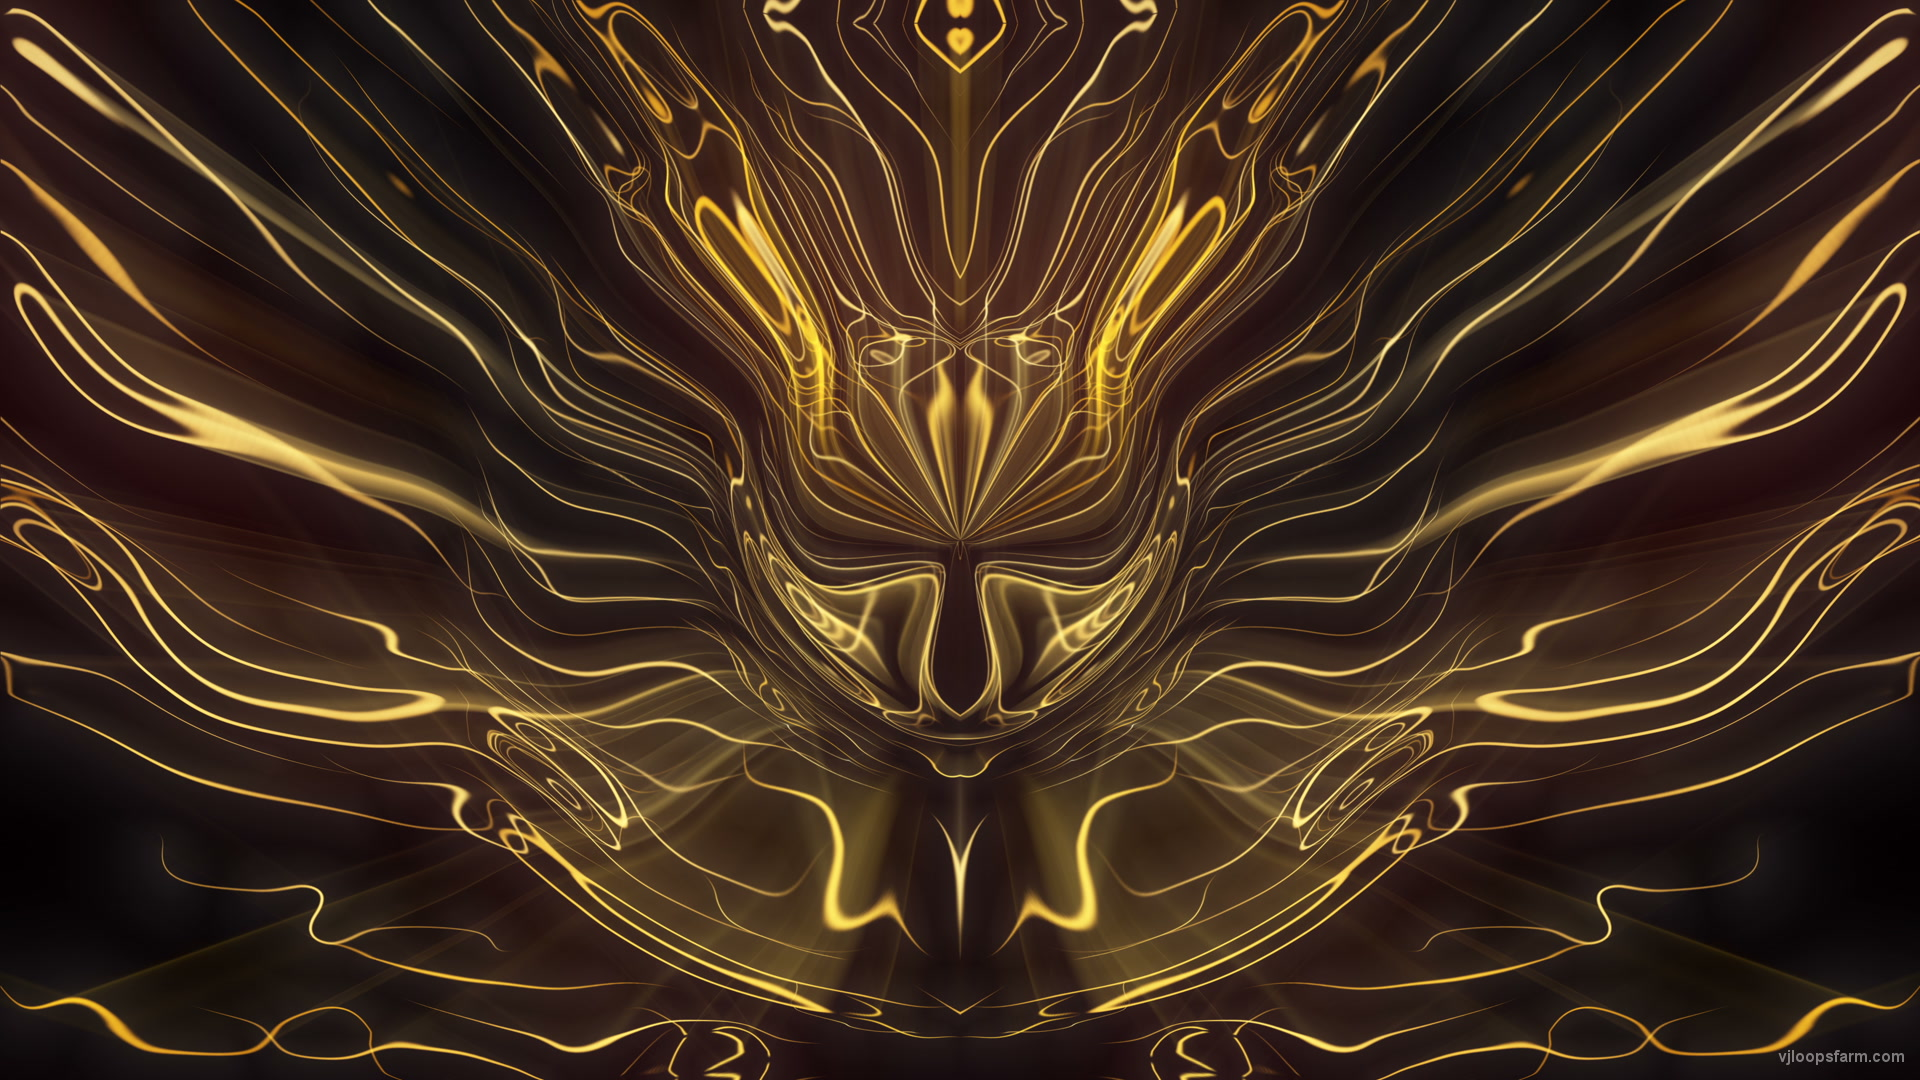
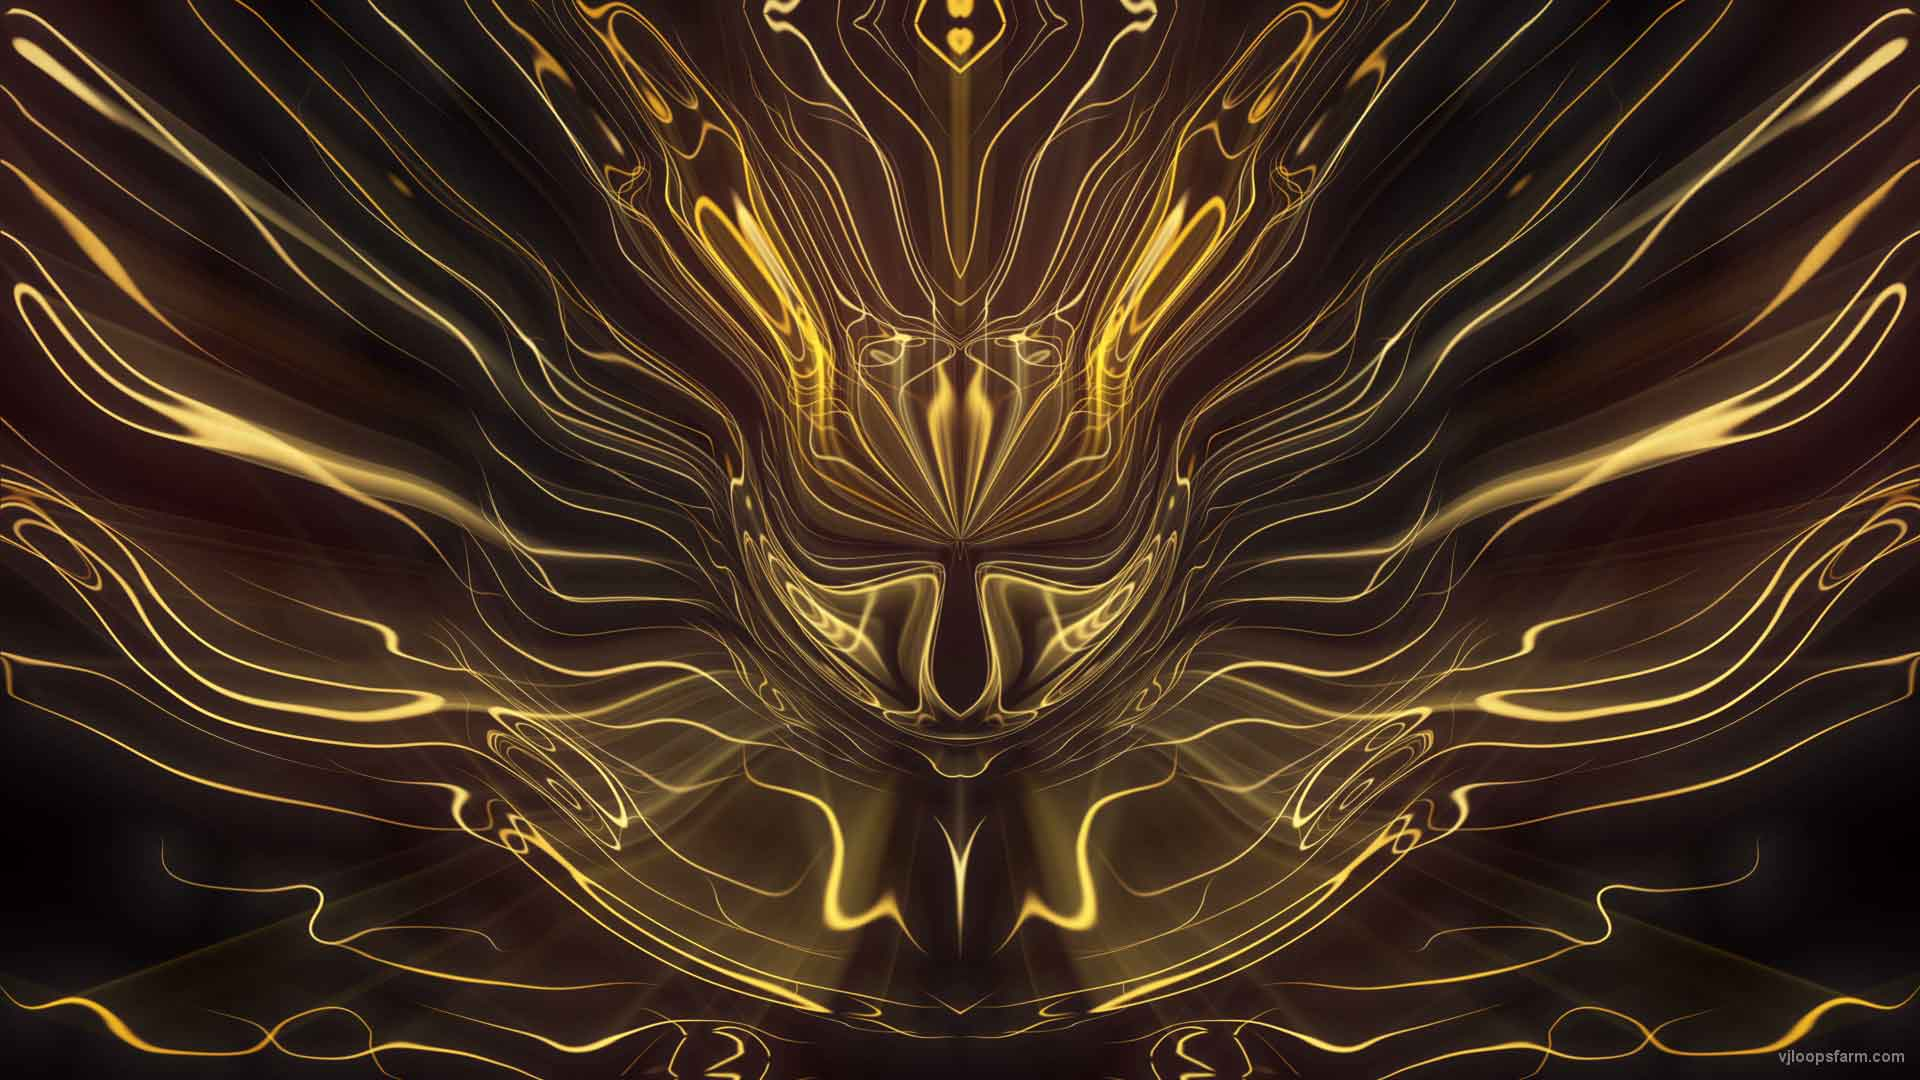
background compress

diff --git a/assets/css/events.css b/assets/css/events.css
@@ -43,21 +43,45 @@ a:hover {
   padding-top: 10vh;
   font-family: Verdana, sans-serif;
   background: rgb(252, 92, 125);
-  background: linear-gradient(rgba(0, 0, 0, 0.6), rgba(0, 0, 0, 0.6)), url("../img/bgnd/concerts.jpg") 0 0 / cover fixed, linear-gradient( 90deg, rgba(252, 92, 125, 1) 0%, rgba(106, 130, 251, 1) 100%);
+  background: linear-gradient(rgba(0, 0, 0, 0.6), rgba(0, 0, 0, 0.6)),
+    url("../img/bgnd/concerts.jpg") 0 0 / cover fixed,
+    linear-gradient(
+      90deg,
+      rgba(252, 92, 125, 1) 0%,
+      rgba(106, 130, 251, 1) 100%
+    );
 }
 
 #workshop {
   padding-top: 10vh;
   font-family: Verdana, sans-serif;
   background: rgb(203, 29, 65);
-  background: linear-gradient(rgba(0, 0, 0, 0.6), rgba(0, 0, 0, 0.6)), url("../img/bgnd/workshops.png") 0 0 / cover fixed, linear-gradient( 90deg, rgba(203, 29, 65, 1) 0%, rgba(242, 117, 98, 1) 0%, rgba(200, 64, 44, 1) 0%, rgba(236, 24, 47, 1) 0%, rgba(187, 41, 117, 1) 100%, rgba(106, 130, 251, 1) 100%);
+  background: linear-gradient(rgba(0, 0, 0, 0.6), rgba(0, 0, 0, 0.6)),
+    url("../img/bgnd/workshops.jpg") 0 0 / cover fixed,
+    linear-gradient(
+      90deg,
+      rgba(203, 29, 65, 1) 0%,
+      rgba(242, 117, 98, 1) 0%,
+      rgba(200, 64, 44, 1) 0%,
+      rgba(236, 24, 47, 1) 0%,
+      rgba(187, 41, 117, 1) 100%,
+      rgba(106, 130, 251, 1) 100%
+    );
 }
 
 #informal {
   padding-top: 10vh;
   font-family: Verdana, sans-serif;
   background: rgb(252, 92, 125);
-  background: linear-gradient(rgba(0, 0, 0, 0.6), rgba(0, 0, 0, 0.6)), url("../img/bgnd/informals.jpg") 0 0 / cover fixed, linear-gradient( 90deg, rgba(252, 92, 125, 1) 0%, rgba(242, 117, 98, 1) 0%, rgba(218, 31, 7, 1) 100%, rgba(106, 130, 251, 1) 100%);
+  background: linear-gradient(rgba(0, 0, 0, 0.6), rgba(0, 0, 0, 0.6)),
+    url("../img/bgnd/informals.jpg") 0 0 / cover fixed,
+    linear-gradient(
+      90deg,
+      rgba(252, 92, 125, 1) 0%,
+      rgba(242, 117, 98, 1) 0%,
+      rgba(218, 31, 7, 1) 100%,
+      rgba(106, 130, 251, 1) 100%
+    );
 }
 
 @font-face {
@@ -87,7 +111,8 @@ img {
 
 /* Next & previous buttons */
 
-.prev, .next {
+.prev,
+.next {
   cursor: pointer;
   position: absolute;
   top: 50%;
@@ -133,7 +158,8 @@ img {
   border-radius: 3px 0 0 3px;
 }
 
-.prev:hover, .next:hover {
+.prev:hover,
+.next:hover {
   background-color: rgba(0, 0, 0, 0.8);
 }
 
@@ -197,7 +223,8 @@ p {
   font-family: "Poppins", sans serif;
 }
 
-.active, .dot:hover {
+.active,
+.dot:hover {
   background-color: white;
   color: #d642b7;
 }
@@ -213,12 +240,12 @@ p {
   display: none;
 }
 
-button {
+.events-btn {
   height: 2px;
   line-height: 0;
   width: 9vw;
   font-size: 3vw;
-  background-color: #1E394B
+  background-color: #1e394b;
 }
 
 @-webkit-keyframes fade {
@@ -259,7 +286,11 @@ button {
 }
 
 @media only screen and (max-width: 500px) {
-  .dot-A, .dot-B, .dot-C, .slideshow-container, .mid {
+  .dot-A,
+  .dot-B,
+  .dot-C,
+  .slideshow-container,
+  .mid {
     display: none;
   }
   .small {
@@ -333,7 +364,8 @@ button {
     text-align: center;
     color: white;
   }
-  .active, .dot1:hover {
+  .active,
+  .dot1:hover {
     background-color: white;
     color: #d642b7;
   }
@@ -413,7 +445,11 @@ button {
 }
 
 @media screen and (min-device-width: 0px) and (max-device-width: 1100px) {
-  .dot-A, .dot-B, .dot-C, .slideshow-container, .mid {
+  .dot-A,
+  .dot-B,
+  .dot-C,
+  .slideshow-container,
+  .mid {
     display: none;
   }
   .small {
@@ -468,7 +504,8 @@ button {
     text-align: center;
     color: white;
   }
-  .active, .dot1:hover {
+  .active,
+  .dot1:hover {
     background-color: white;
     color: #d642b7;
   }

diff --git a/index.html b/index.html
@@ -59,7 +59,7 @@
 
 <body onload="showPage()" style="margin:0;padding:0;width:100%;height:100%">
     <div id="loader">
-        <img src="../assets/img/bgnd/loader.gif" />
+        <img src="../assets/img/bgnd/loader.webp" />
     </div>
 
     <div id="pages" class="slideUp">
